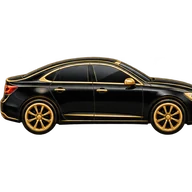
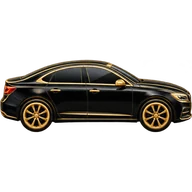
WhatsApp "aracınız hazır" mesajı Bey/Hanım ile, araba ikonu tam
- Mesaj: "Merhaba {ad} {hitap}, aracınız hazır, teslim alabilirsiniz."
  {ad} ilk ad (belgeden büyük harfle geleni Türkçe düzeltir), {hitap}
  Bey ya da Hanım; müşteri başına bir kez seçilir, klasörde hatırlanır.
- Klasördeki WhatsApp düğmesi mesajı gösteren bir pencere açar; altındaki
  "WhatsApp'ta aç" müşterinin sohbetini mesaj yazılı olarak açar.
- make-art.py: ikon hücre çizgisini aşarsa kesilmez (arabanın burnu
  kesikti, para ikonunda da arabadan bir parça vardı).

Changed region(s): [[0.0, 0.2812, 1.0, 0.7188]]

diff --git a/app/js/ui/screens/folder-view.js b/app/js/ui/screens/folder-view.js
@@ -1,8 +1,8 @@
 // One customer's folder: call / WhatsApp, jobs, every field with its copy button, photos.
-import { getFolder, jobsForFolder, listPhotos, onChange, deleteFolder, addPhoto, getSettings } from '../../data/repo.js';
-import { folderSections, sectionCopyText, folderCopyText, waLink, telLink } from '../../lib/share.js';
+import { getFolder, jobsForFolder, listPhotos, onChange, deleteFolder, addPhoto, getSettings, saveFolder } from '../../data/repo.js';
+import { folderSections, sectionCopyText, folderCopyText, readyMessage, waLink, telLink } from '../../lib/share.js';
 import { formatMoney, formatDate, formatPhone } from '../../lib/format.js';
-import { h, icon, toast, confirmSheet, copyRow, copyText } from '../dom.js';
+import { h, icon, toast, confirmSheet, copyRow, copyText, sheet } from '../dom.js';
 import { plateChip, urlScope, statusBadge } from '../parts.js';
 import { setTopbar, setTab } from '../chrome.js';
 import { go } from '../router.js';
@@ -16,6 +16,34 @@ const GROUPS = [['Araç', ['arac']], ['Hasar öncesi', ['once']], ['Hasar sonras
 
 function quick(label, ic, attrs) {
   return h(attrs.href ? 'a' : 'button', { class: 'qa-btn', type: attrs.href ? null : 'button', ...attrs }, icon(ic, 26), h('span', {}, label));
+}
+
+// "Aracınız hazır": Bey or Hanım is picked once per customer, then the message and, under it, the
+// link that opens the customer's WhatsApp chat with the message typed in.
+function openReadySheet(folder, template) {
+  let hitap = folder.hitap || '';
+  const text = h('p', { class: 'wa-text' });
+  const slot = h('div');
+  const chips = h('div', { class: 'chips' }, ['Bey', 'Hanım'].map((v) => h('button', {
+    class: 'chip', type: 'button', 'data-v': v,
+    onclick: () => { hitap = v; draw(); saveFolder({ id: folder.id, hitap: v }); },
+  }, v)));
+  function draw() {
+    const f = { ...folder, hitap };
+    text.textContent = readyMessage(f, template);
+    chips.querySelectorAll('.chip').forEach((c) => {
+      c.classList.toggle('on', c.dataset.v === hitap);
+      c.setAttribute('aria-pressed', String(c.dataset.v === hitap));
+    });
+    slot.replaceChildren(hitap
+      ? h('a', { class: 'btn primary block', href: waLink(f, template), target: '_blank', rel: 'noopener', onclick: () => setTimeout(() => s.close(), 400) },
+        icon('brand-whatsapp', 22), "WhatsApp'ta aç")
+      : h('p', { class: 'muted small' }, 'Önce Bey ya da Hanım seç.'));
+  }
+  const s = sheet(h('div', { class: 'stack' },
+    h('span', { class: 'muted small' }, 'Bey mi, Hanım mı?'), chips, text, slot,
+    h('p', { class: 'muted small' }, "WhatsApp'ta mesaj yazılı gelir, göndere basman yeter.")), { title: 'Aracınız hazır' });
+  draw();
 }
 
 export async function folderView({ id }, ctx) {
@@ -64,7 +92,7 @@ export async function folderView({ id }, ctx) {
         folder.phone && h('p', { class: 'fphone-big' }, icon('phone', 18), formatPhone(folder.phone))),
       h('div', { class: 'qa' },
         quick('Ara', 'phone', tel ? { href: tel } : { onclick: noPhone }),
-        quick('WhatsApp', 'brand-whatsapp', wa ? { href: wa, target: '_blank', rel: 'noopener' } : { onclick: noPhone }),
+        quick('WhatsApp', 'brand-whatsapp', { onclick: wa ? () => openReadySheet(folder, settings.waTemplate) : noPhone }),
         quick('Hepsini kopyala', 'copy', { onclick: () => copyText(folderCopyText(folder), 'Bütün bilgiler') })));
 
     // Jobs

diff --git a/app/js/lib/share.js b/app/js/lib/share.js
@@ -41,11 +41,32 @@ export function folderCopyText(folder) {
   return folderSections(folder).map((s) => sectionCopyText(s.rows)).filter(Boolean).join('\n\n');
 }
 
+// Names read off a document come in capitals; a greeting writes them the Turkish way (IŞIL → Işıl).
+function niceName(word) {
+  if (word !== word.toLocaleUpperCase('tr')) return word;
+  const lower = word.toLocaleLowerCase('tr');
+  return lower.charAt(0).toLocaleUpperCase('tr') + lower.slice(1);
+}
+
+// The "aracınız hazır" text: {ad} first name(s), {hitap} Bey or Hanım, {adsoyad} full name, {plaka}.
+export function readyMessage(folder, template) {
+  const words = String(folder.name || '').trim().split(/\s+/).filter(Boolean);
+  const given = (words.length > 1 ? words.slice(0, -1) : words).map(niceName).join(' ');
+  return template
+    .replaceAll('{ad}', given)
+    .replaceAll('{hitap}', given ? folder.hitap || '' : '')
+    .replaceAll('{adsoyad}', folder.name || '')
+    .replaceAll('{plaka}', folder.plate || '')
+    .replace(/[ \t]+/g, ' ')
+    .replace(/ ([,.!?])/g, '$1')
+    .trim();
+}
+
+// Opens the customer's WhatsApp chat with the ready message typed in; only "send" is left.
 export function waLink(folder, template) {
   const number = waNumber(folder.phone);
   if (!number) return '';
-  const text = template.replaceAll('{ad}', folder.name || '').replaceAll('{plaka}', folder.plate || '').trim();
-  return `https://wa.me/${number}?text=${encodeURIComponent(text)}`;
+  return `https://wa.me/${number}?text=${encodeURIComponent(readyMessage(folder, template))}`;
 }
 
 export function telLink(phone) {

diff --git a/app/css/app.css b/app/css/app.css
@@ -623,6 +623,7 @@ button.photo-main { display: grid; place-content: center; justify-items: center;
 .doc-row.err .grow > span { color: var(--warn); }
 .btn-art { width: 26px; height: 26px; object-fit: contain; margin-left: -6px; }
 .empty-art { width: 150px; height: 150px; object-fit: contain; filter: drop-shadow(0 12px 24px rgba(0, 0, 0, 0.22)); }
+.wa-text { margin: 0; padding: 14px 16px; border-radius: 14px; background: var(--surface-2); border: 1px solid var(--line); line-height: 1.45; }
 
 /* Welcome (first launch) */
 .welcome { position: fixed; inset: 0; z-index: 90; overflow: hidden; background: #000; color: #fff; transition: opacity 0.25s ease-out; }

diff --git a/app/js/ui/screens/settings.js b/app/js/ui/screens/settings.js
@@ -106,7 +106,7 @@ export async function settingsScreen(params, ctx) {
 
     // WhatsApp
     const wa = h('textarea', { rows: 3, value: s.waTemplate, onchange: () => saved('waTemplate', 'Mesaj kaydedildi')(wa.value) });
-    const waCard = card('WhatsApp mesajı', field('"Aracınız hazır" mesajı', wa, '{ad} müşterinin adı, {plaka} aracın plakası olarak yazılır.'));
+    const waCard = card('WhatsApp mesajı', field('"Aracınız hazır" mesajı', wa, '{ad} müşterinin adı, {hitap} Bey ya da Hanım, {plaka} aracın plakası olarak yazılır.'));
 
     // Backup
     const restoreInput = h('input', {

diff --git a/app/js/data/repo.js b/app/js/data/repo.js
@@ -13,7 +13,7 @@ export const DEFAULT_SETTINGS = {
   vatMode: 'haric',
   scriptUrl: '',
   token: '',
-  waTemplate: 'Merhaba {ad}, {plaka} plakalı aracınızın işlemi tamamlandı. Auto Vizyon Boyasız Hasar Onarım',
+  waTemplate: 'Merhaba {ad} {hitap}, aracınız hazır, teslim alabilirsiniz.',
   lastPull: 0,
 };
 

diff --git a/tools/make-art.py b/tools/make-art.py
@@ -9,8 +9,34 @@ src, out = sys.argv[1], sys.argv[2]
 ICONS = ['ruhsat', 'ehliyet', 'kimlik', 'camera', 'car', 'coins']
 sheet = Image.open(f'{src}/icons.png').convert('RGBA')
 cw, ch = sheet.width // 3, sheet.height // 2
+solid = sheet.getchannel('A').point(lambda a: 255 if a > 24 else 0)
+
+
+def empty(box):
+    return solid.crop(box).getbbox() is None
+
+
+def icon_box(x0, y0, x1, y1):
+    # The model lets an icon cross its cell line (the car's nose does). Start in the middle of the cell
+    # and widen to the first empty column and row on each side, so the icon stays whole and a
+    # neighbour's overhang, which sits past an empty gap, stays out.
+    cx, cy = (x0 + x1) // 2, (y0 + y1) // 2
+    if empty((cx, y0, cx + 1, y1)):
+        return x0, y0, x1, y1
+    left, right = cx, cx + 1
+    while left > 0 and not empty((left - 1, y0, left, y1)): left -= 1
+    while right < sheet.width and not empty((right, y0, right + 1, y1)): right += 1
+    if empty((left, cy, right, cy + 1)):
+        return left, y0, right, y1
+    top, bottom = cy, cy + 1
+    while top > 0 and not empty((left, top - 1, right, top)): top -= 1
+    while bottom < sheet.height and not empty((left, bottom, right, bottom + 1)): bottom += 1
+    return left, top, right, bottom
+
+
 for i, name in enumerate(ICONS):
-    cell = sheet.crop(((i % 3) * cw, (i // 3) * ch, (i % 3 + 1) * cw, (i // 3 + 1) * ch))
+    box = icon_box((i % 3) * cw, (i // 3) * ch, (i % 3 + 1) * cw, (i // 3 + 1) * ch)
+    cell = sheet.crop(box)
     cell = cell.crop(cell.getchannel('A').point(lambda a: 255 if a > 24 else 0).getbbox())
     side = max(cell.size)
     square = Image.new('RGBA', (side, side), (0, 0, 0, 0))
